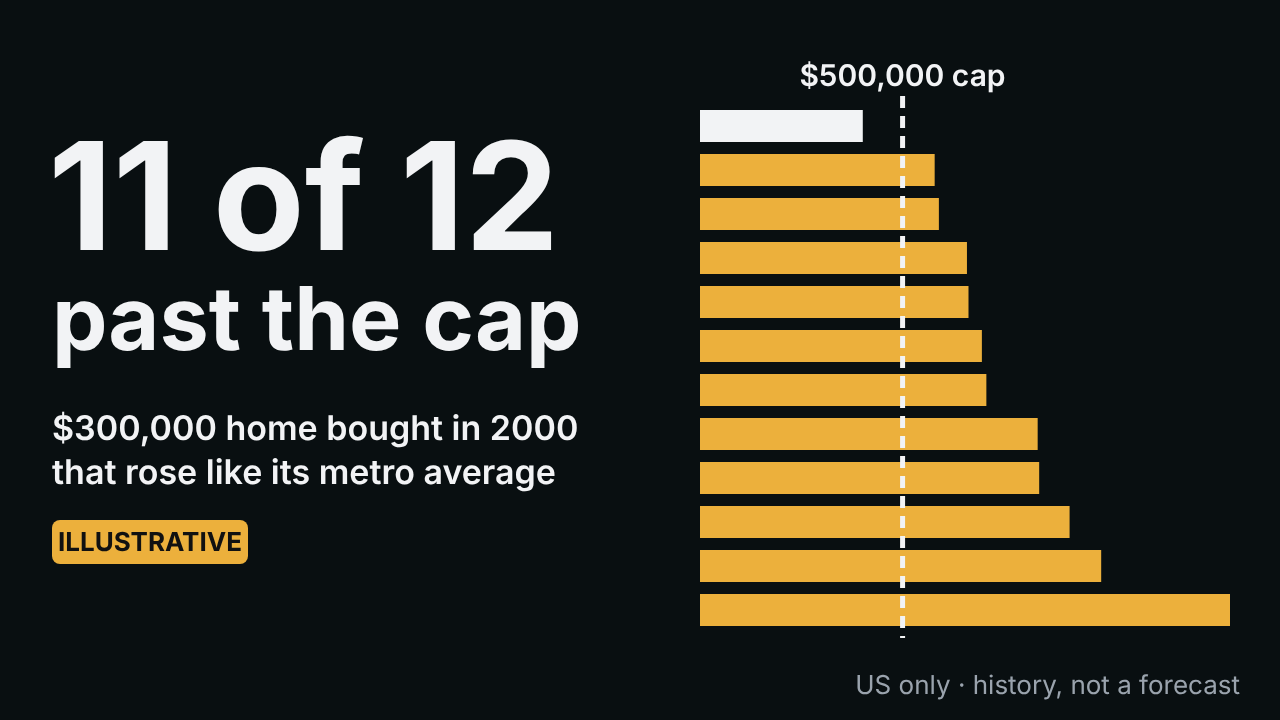
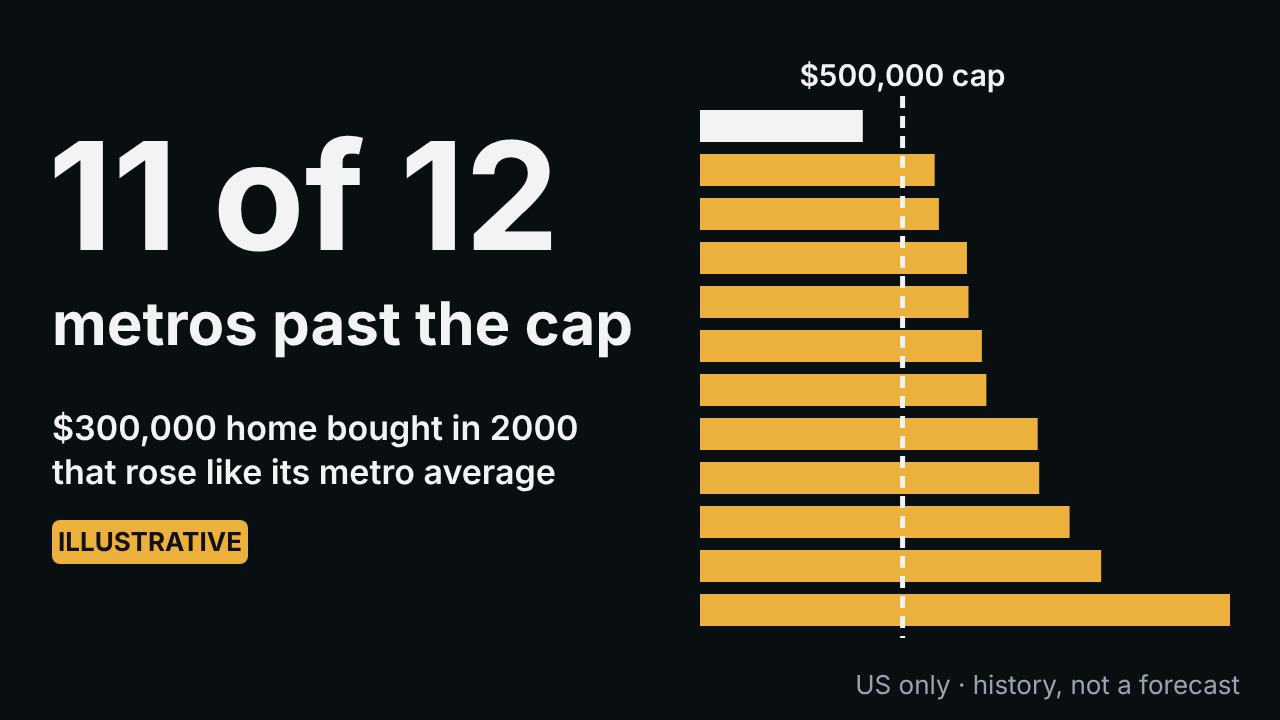
ep004 G2: sửa theo REVIEWER — cổng gốc 3/7, phương án (b)/(b′), hạn chế đối chứng âm, thumb-1 'metros past the cap', thumbnail khai F11, L1, ±5 %; PLAN + ledger
Claude-Session: https://claude.ai/code/session_017UH5f5kzzAtqpZpyL5nkiY

Changed region(s): [[0.0312, 0.3972, 0.5, 0.5194]]

diff --git a/episodes/ep004/design/g2/thumbs.js b/episodes/ep004/design/g2/thumbs.js
@@ -24,7 +24,7 @@ function thumb1() { // 11 of 12 past the cap — bars of gains, $300,000 bought 
   let g1 = METROS.map((m, i) => { const v = num('gain_at_300k_' + m), y = y0 + i * (bh + g); return `<rect x="${x0}" y="${y}" width="${sc(v) - x0}" height="${bh}" fill="${v > cap ? WARN : INK}"/>`; }).join('');
   g1 += `<line x1="${sc(cap)}" y1="${y0 - 14}" x2="${sc(cap)}" y2="${y0 + 12 * (bh + g)}" stroke="${INK}" stroke-width="5" stroke-dasharray="12 8"/>`;
   const texts = [T('h1', 48, 250, 150, `${d('metros_crossed_at_300k')} of ${d('metro_count')}`, ['metros_crossed_at_300k', 'metro_count']),
-    T('h2', 52, 350, 88, 'past the cap', ['excl_joint_limit_usd']),
+    T('h2', 52, 345, 60, 'metros past the cap', ['excl_joint_limit_usd']),
     T('s1', 52, 440, 34, `${d('illustrative_price_300k_usd')} home bought in ${d('buy_year')}`, ['illustrative_price_300k_usd', 'buy_year'], { w: 600 }),
     T('s2', 52, 484, 34, 'that rose like its metro average', [], { w: 600 }),
     T('s3', sc(cap), y0 - 24, 30, `${d('excl_joint_limit_usd')} cap`, ['excl_joint_limit_usd'], { w: 600, anchor: 'middle' }), foot];

diff --git a/episodes/ep004/gates/G2.md b/episodes/ep004/gates/G2.md
@@ -1,29 +1,33 @@
-# Cổng G2 · Tập 4 — gói phát hành (BẢN NHÁP, chờ chủ dự án)
+# Cổng G2 · Tập 4 — gói phát hành (sau REVIEWER, chờ chủ dự án)
 
[1 lines of base64/hex data omitted]
 
 - **Checks lần 2 (C5, 89 luật):** CHẶN 24/35 ĐẠT, 0 hồi quy; còn F11, F12, S03, S04 + luật trang (ngoại lệ Tập 4 đã duyệt C4). CHÍNH 1/11 — đều có giải thích `out/explanations.json`. Chi tiết `gates/C5.md`.
 - **Tóm tắt AI (mù tập):** `gates/G2-ai-summary.md`: đúng câu hỏi + đáp án; **không lấy ra được lời khuyên**; điểm hook 2 · truyện 4 · hình 4 · nhịp 3 · xem tiếp 3; dễ rối: thang/rung 5:10–5:45, đổi $200k→$300k 3:48–4:09, khung quốc gia gần trống 6:45.
 - **So cặp thumbnail:** `gates/G2-thumbs.md`: T1 3/4 · T3 2/4 · T2 1/4 (một người đọc, 6 cặp, 4 vai — hạn chế trần agent).
-- **REVIEWER:** _(điều phối điền)_
-- **Token so trần (2,0 triệu / 30 agent):** _(điều phối điền)_
+- **REVIEWER** (`gates/REVIEW-G2.md`, opus): TRƯỢT 1 CHẶN + 7 CHÍNH + 9 THAM KHẢO → **sửa hết CHẶN và CHÍNH** trong gói (câu 1 báo lại 3/7; hạn chế đối chứng âm; thumb-1 "metros past the cap"; bỏ số không claim ở phương án B10; L1 vào hàng chờ; thumbnail khai vào `contract.json` → F11 còn 14 file; PLAN/ledger; chỉ số ±5 %). Không dựng lại video nên không soát lại vòng 2 (trần). C3 soát bù: số trung thực, chỉ THAM KHẢO.
+- **Chỉ số trong ±5 % quanh ngưỡng (C5):** F04 16,6 Mbps (≥ 16, CHẶN, đạt sát) · F06 (CHẶN, đạt sát) · F07 477,5 s (CHÍNH, trượt) · A18 1 giọng (đạt đúng ngưỡng) · S15 outro 19,6 s (THAM KHẢO, < 20 s).
+- **Token so trần (2,0 triệu / 30 agent):** agent con ≈ 1,61 triệu (27 agent) + điều phối ≈ 0,3 triệu ⇒ **≈ 1,9 triệu**, sát trần; chi tiết `ledger.md`.
+- **Kiểm mù khuyên (A9):** đối chứng dương "Sell before prices drop" bị bắt (rubric dùng được). **Đối chứng âm có hạn chế:** hình V4 (lãi cố định/thả nổi) tự mang lựa chọn sản phẩm → 2/2 người đọc khuyên chọn lãi; thận trọng chung chỉ 1/2 → chưa tách sạch phần do vai/câu hỏi (`gates/C4-blind.md`). S18 2/4 (đạt sát).
 
 ## Câu 1 — L3 và phát hành
-Cổng gốc nhịp loại 1 (C4, `gates/C4-root.md`): **4/7 = 57 % < 80 % → TRƯỢT.** B06 (S06), B10 (S10), B15 (S15) trượt vì nhãn, không vì nghĩa lời. Ký hiệu mới **N1 (B08) / N2 (B14)** duyệt ở G2 theo D-008 §3: nghĩa ĐẠT ở C3 vòng 2; A9 khuyên_tính **0/12**.
+Cổng gốc nhịp loại 1 (C4, `gates/C4-root.md`): **3/7 = 43 % < 80 % → TRƯỢT, cả vì nghĩa lẫn câu khuyên.** Đạt: B08, B14 (N1/N2, C3 vòng 2), B09 (2/2). Trượt: **B06** (nghĩa 0,5 + một cờ khuyên chắc "shouldn't wait on a sale"), **B10** (nghĩa 0,5 + một cờ khuyên yếu "time the sale"), **B11** (một cờ khuyên biên "timing… while I decide when to sell" — theo §5.6 một câu khuyên làm nhịp trượt; người thứ 3 do **điều phối** chấm, không phải người chấm độc lập), **B15** (nghĩa 0,5 ×2: N2 không có ô "giá 2000 của bạn"). Cờ khuyên ở đây đều dạng **chờ/canh thời điểm bán** — loại A9 tính. Ký hiệu mới **N1/N2** duyệt ở G2 theo D-008 §3: nghĩa ĐẠT C3 vòng 2; A9 khuyên_tính 0/12.
 Phương án:
 - (a) phát hành nguyên trạng (chấp nhận cổng gốc trượt);
-- **(b) sửa nhãn rồi phát hành** — chỉ nhãn, danh sách đóng §6.6, dựng lại 3 cảnh + checks lại (không đổi lời, 0 ký tự EL):
+- **(b) sửa nhãn rồi chấm lại** — chỉ nhãn, danh sách đóng §6.6, dựng lại S06, S09/S10, S11, S15 (0 ký tự EL), checks lại; **vòng 2 cổng gốc B06, B10, B11, B15 bằng người đọc mới + người chấm độc lập theo ý đồ vòng 2 ghi trước** (ý đồ cũ ghi "không vòng 2" → cần chủ dự án duyệt; ≈ 0,4 triệu token, ≈ 10 agent — vượt trần phiên hiện tại, cần trần mới):
   - B06/S06: dời nhãn "$500,000 cap"/ILLUSTRATIVE khỏi đoạn cuối đường; mốc "Over: Q2 2022" và "Stayed over since Q2 2023";
-  - B10/S10 (và S09): tiêu đề nói đơn vị — "Value today; past the cap = gain (value − $300,000) over $500,000" hoặc vạch dọc tại $800,000 ("gain = $500,000");
+  - B10/S10 (và S09): tiêu đề nói đơn vị — "Value today · past the cap = gain over $500,000" (không thêm số mới);
+  - B11/S11 và B06: đối trọng "A measurement, not a next step" đứng suốt cảnh (nhắm cờ chờ/canh thời điểm);
   - B15/S15: nhãn "Your 2000 price above your city's rung → past the cap" cạnh thang;
+- (b′) chủ dự án quyết cờ khuyên **mức yếu/biên** (B10, B11) không tính → kết quả 4/7 = 57 % (vẫn < 80 %), rồi (a) hoặc (b) chỉ cho B06, B15;
 - (c) không phát hành.
 
-**Khuyến nghị: (b).** Ba lỗi đều là nhãn che/thiếu đơn vị, sửa trong danh sách đóng; sau sửa chấm lại cổng gốc 3 nhịp (B06, B10, B15). Duyệt N1/N2 vào thư viện ký hiệu kèm.
+**Khuyến nghị: (b).** Lỗi là nhãn che/thiếu đơn vị/thiếu ô, và cờ "chờ thời điểm bán" — đúng loại A9 phải bắt; sửa trong danh sách đóng rồi chấm lại 4 nhịp với trần mới. Duyệt N1/N2 vào thư viện ký hiệu kèm.
 
 ## Câu 2 — Tiêu đề và 3 thumbnail
 - **Tiêu đề:** giữ **T1** (G1): *Bought Your Home in 2000? The $500,000 Tax-Free Limit Test* (58 ký tự).
 - **3 thumbnail** `out/package/thumb-{1,2,3}.png` (dựng `design/g2/thumbs.js`; mọi chữ/số/hình khai claim trong `thumb-N.json`; không câu khuyên, không dự báo; chân "US only · history, not a forecast"):
-  - **T1 "11 of 12 / past the cap"** — `metros_crossed_at_300k`, `metro_count`; phụ "$300,000 home bought in 2000 that rose like its metro average" + ILLUSTRATIVE; hình 12 thanh `gain_at_300k_*` qua vạch $500,000.
+  - **T1 "11 of 12 / metros past the cap"** (sau REVIEWER: thêm "metros" — người đọc so cặp đã đọc thành "most homes like mine") — `metros_crossed_at_300k`, `metro_count`; phụ "$300,000 home bought in 2000 that rose like its metro average" + ILLUSTRATIVE; hình 12 thanh `gain_at_300k_*` qua vạch $500,000.
   - **T2 "Cap: $500,000 / Prices: ×3.1"** — `excl_joint_limit_usd`, `growth_us`; phụ "US average, 2000 → 2026 Q2 · cap since May 1997"; hình đường lãi $300,000 theo chỉ số US vượt vạch cap (`gain_at_300k_us`, `cross_quarter_at_300k_us`) + ILLUSTRATIVE.
   - **T3 "Miami ≈ $114,700 / Chicago ≈ $373,400"** — `threshold_joint_min/max(_metro)`; phụ "2000 price where the gain passes $500,000 · home that rose like its metro average"; hình dải chấm 12 ngưỡng `threshold_joint_*`.
 - Mô tả: `out/package/description.md` (bản C5, giữ nguyên).
@@ -33,7 +37,8 @@ Phương án:
 ## Câu 3 — Shorts và hàng chờ CHÍNH / ngoại lệ cần quyết
 - **Shorts** `out/shorts/SH{1,2,3}.mp4` (S06 35,1 s · S10 22,5 s · S11 25,7 s): SH01–SH05 ĐẠT cả 3, qc dọc ĐẠT. Nếu chọn (b) ở câu 1, SH1/SH2 dựng lại theo nhãn mới.
 - **Ngoại lệ cần quyết:**
-  1. **F11 CHẶN** — 17 file phát hành của pipeline cũ (sfx/room/sonify, camera, cues…) + `page.json` không có ở nhà máy → nới ngoại lệ Tập 4 (như luật trang), việc treo lô K.
+  1. **F11 CHẶN** — thumbnail đã khai (`contract.json`); còn **14 file** phát hành của pipeline cũ (sfx/whoosh/room/sonify stem, camera, sfx/sonify-events, tempo-map, transitions, cues, tension-map json/png, shotlist, tokens) + `page.json` không có ở nhà máy → nới ngoại lệ Tập 4 (như luật trang), việc treo lô K. Chạy lại F11/P01: `out/checks/report-partial.md`. **P01 THAM KHẢO** trượt: tương phản 10 % ≈ 2,24 và 18 chữ < 90 px trên thumbnail — chỉ báo số.
+  1b. **L1 CHÍNH** — không có lớp sonify (nhà máy không có) → giải thích ở `out/explanations.json`, ghi nhận.
   2. **F12 CHẶN MISSING** — chỉ vì không có trang lấy mẫu; chạy khô logic = PASS → ngoại lệ cùng luật trang.
   3. **S03/S04 CHẶN** — `fhfa.gov` vẫn 403 qua proxy → chấp nhận FRED làm nguồn duy nhất cho Tập 4 (FRED phân phối lại chính chuỗi FHFA), hoặc mở miền rồi đối chiếu trước khi đăng.
   4. **S14 THAM KHẢO** — nhạc lấp khoảng lặng ≥ 1 s ở 2 mid-roll → giữ (gu phối) hoặc hạ nhạc về 0 quanh MR1 180,05 s / MR2 349,30 s (chỉ mix lại).

diff --git a/episodes/ep004/PLAN.md b/episodes/ep004/PLAN.md
@@ -12,7 +12,9 @@ Nhánh `ep004` từ `main` @ `b9710d2` (đẩy song song lên `claude/tap4-p1-di
 | Giao phiên K | **SẴN SÀNG — chủ dự án mở phiên K** | `K-brief.md` | kind mới; một lần cho tập |
 | **G1** | **XONG** — chủ dự án duyệt (issue #37; C2 tự động #36) | `gates/G1.md`, `gates/G1-answer.md` | trần 4,5 triệu |
 | C3 (P2) | **XONG** — chủ dự án duyệt (issue #39, `gates/C3-answer.md`): N1, N2 ký hợp đồng bản vòng 2; ngoại lệ cờ khuyên Tập 4 | `gates/C3.md`, `gates/C3-tally.md`, `design/c3/`, `review-c3/` | dựng bằng nhà máy; móc nạp ký hiệu +7/−3 |
-| C4 (phiên cuối, D-008) | **DỪNG HỎI chủ dự án** — animatic dựng (`61aa5e0`), checks lần 1 TRƯỢT 13 CHẶN (7 luật trang thiếu `page.json`, S03/S04 nguồn FHFA bị chặn, F06/F10–F12 việc C5); kiểm mù gộp xong; cổng gốc nhịp loại 1 chưa chạy | `gates/C4.md`, `gates/C4-blind.md`, `gates/C4-blind-intent.md` | đối chứng dương ĐẠT; C3 theo A9 khuyên_tính 0/12; S18 2/4 đạt sát |
+| C4 (phiên cuối, D-008) | XONG — checks lần 1; kiểm mù gộp (đối chứng dương ĐẠT, âm có hạn chế; C3 theo A9 khuyên_tính 0/12; S18 2/4); **cổng gốc 3/7 TRƯỢT** (B06, B10, B11, B15); chủ dự án trả lời ngoại lệ (`gates/C4-answer.md`) | `gates/C4*.md` | trần nâng 2,0 tr / 30 agent |
+| C5 | XONG — nhạc style C, −14,2 LUFS / −1,6 dBTP; checks lần 2 CHẶN 24/35 (còn F11, F12, S03, S04 + luật trang ngoại lệ); Shorts 3/3 SH01–SH05 ĐẠT; ASR "rose" | `gates/C5.md` | bản vá Shorts toolkit chưa commit (`design/c5/factory-shorts.patch`) |
+| **G2** | **CHỜ chủ dự án** — gói sau REVIEWER (1 CHẶN + 7 CHÍNH đã sửa) | `gates/G2.md`, `gates/REVIEW-G2.md`, `gates/G2-*.md`, `review-g2/` | khuyến nghị (b): sửa nhãn + vòng 2 cổng gốc với trần mới |
 
 ## 2. Phiên sau đọc (phiên C4 + P3)
 `CHARTER.md` · `playbook/quality-framework.md` · `playbook/episode.md` · `playbook/prompts/P3.md` · `episodes/ep004/PLAN.md` · `ledger.md` · `gates/G1-answer.md` · **`gates/C3-answer.md`** · `gates/C3.md` · `story/script.md` · `story/beats.md` · `episode.yaml` · `design/c3/NOTES.md` · `toolkit/factory/README.md` · `checks-appeal.md` A9.
@@ -29,7 +31,7 @@ Nhánh `ep004` từ `main` @ `b9710d2` (đẩy song song lên `claude/tap4-p1-di
 - Phối nhạc style C, lời cả tập theo cảnh (cold open có take S01/S02 theo hash chữ; S08, S13, S14 đã cache).
 - Luật nhãn "like … average" theo cảnh là **luật của tập** (`story/check_script.py`), không vào `checks/`.
 ## 4. Điểm dừng an toàn + lệnh chạy tiếp
-2026-10-06 (phiên cuối, D-008): LOCK `250ab298` khớp; merge `main` (`b528736`); D-008 + `playbook/prompts/RUN.md`; selftest móc `toolkit/tests/test_symbol_hook.py` 5/5 (điều (d): spec chưa BLOCK file ký hiệu thiếu — `load_inputs` dừng trước API; thêm kiểm vào `spec.py` bị chặn quyền → hàng chờ); C4 dựng + checks lần 1; kiểm mù gộp. **Dừng hỏi chủ dự án:** luật trang, S03/S04, thời lượng 7:58, EL 11.702 ký tự, trần token. Dựng lại: `python3 episodes/ep004/design/c4/build_inputs.py && bash toolkit/build.sh episodes/ep004/episode.yaml && python3 episodes/ep004/design/c4/build_inputs.py --out` (av 14.2.0 cho faster-whisper).
+2026-10-06 (phiên cuối, D-008): LOCK `250ab298` khớp; merge `main` (`b528736`); D-008 + `playbook/prompts/RUN.md`; selftest móc `toolkit/tests/test_symbol_hook.py` 5/5 (điều (d): spec chưa BLOCK file ký hiệu thiếu — `load_inputs` dừng trước API; thêm kiểm vào `spec.py` bị chặn quyền → hàng chờ); C4 dựng + checks lần 1; kiểm mù gộp. Chủ dự án trả lời (`gates/C4-answer.md`) → cổng gốc, C5, gói G2, REVIEWER. **DỪNG ở G2.** Dựng lại: `python3 episodes/ep004/design/c4/build_inputs.py && bash toolkit/build.sh episodes/ep004/episode.yaml && python3 episodes/ep004/design/c4/build_inputs.py --out` (av 14.2.0 cho faster-whisper).
 2026-10-06 (P2, xong): C3 duyệt (issue #39); S14.5 sửa + sinh lại + ASR. **P2 DỪNG. C4 + P3 ở phiên mới, sau khi `checks-k38` merge `main`.** Dựng lại đoạn trích: dữ liệu như dưới → `python3 episodes/ep004/design/c3/build_inputs.py` → `bash toolkit/build.sh episodes/ep004/episode.yaml` (giọng cache theo băm; cài ffmpeg nếu thiếu).
 2026-10-05: G1 xong; dừng chờ phiên K (chủ dự án mở), rồi P2. Dữ liệu không commit: `python3 episodes/ep004/data/fetch.py` (kiểm SHA) → `python3 episodes/ep004/model/model.py` → `python3 episodes/ep004/story/check_script.py`. Clip: `python3 episodes/ep004/story/cold_open.py` (take theo hash chữ, không sinh lại nếu chữ không đổi).
 

diff --git a/episodes/ep004/ledger.md b/episodes/ep004/ledger.md
@@ -37,3 +37,14 @@ Mỗi agent con, mỗi cổng: một dòng. Token = số harness của agent con
 | 2026-10-06 | sau C3 | S14.5 "a 2000 price" → "a price paid in 2000"; dựng lại (chỉ S14 sinh giọng) + ASR | lệnh | — | 470 ký tự EL; check_script ĐẠT; qc 0 TRƯỢT; ASR 8/8 từ khoá; **tổng EL P2 1.627, tập 3.554** |
 | 2026-10-06 | C4 (P3) | animatic cả tập bằng nhà máy (19 cảnh, 37 shot) + contract.json + checks lần 1 | lệnh | — | 477,6 s; MR 180,05 / 349,30 s; EL 8.148 ký tự (tập 11.702, vượt đích 6.000; hạn mức không đọc được: khoá thiếu `user_read`); checks CHẶN 22 ĐẠT/13, CHÍNH 1/10, THAM KHẢO 5/38 (S01, S05, A14, S14, S18 ĐẠT); sửa: model `_names` mọi mốc, value `sale_quarter`, 5 câu giữ nghĩa (A14), cắt tiếng F03, phụ đề F09, nhãn điều kiện S09/S10/S01/S07/S15; cổng gốc chưa chạy (dải `review-c4/strips/`); `gates/C4.md` |
 | 2026-10-06 | C5 (P3) | nhạc style C + render 1080p + checks lần 2 + Shorts + mô tả/rights/visual-assets + highlight | lệnh | — | 0 ký tự EL; −14,2 LUFS / −1,6 dBTP (§6.2: −0,2 dB lúc mã hoá vì AAC −1,4); CHẶN 24/35 (còn F11, F12, S03/S04 + trang ngoại lệ); Shorts SH01–SH05 ĐẠT sau sửa nhánh dọc engine/templates (§6.6: xuống dòng, đối trọng dọc, bars dọc, nhãn cap) — toolkit chưa commit, bản vá `design/c5/factory-shorts.patch`; ASR S14.1 "rose" đúng; fhfa.gov vẫn 403; `gates/C5.md` |
+| 2026-10-06 | phiên cuối mở | LOCK 250ab298 khớp; merge `main`; D-008 + `RUN.md` | lệnh | — | — |
+| 2026-10-06 | móc | selftest `test_symbol_hook.py` | sonnet | 66.810 | 5/5; (d) spec chưa BLOCK file thiếu (sửa spec bị chặn quyền → G2) |
+| 2026-10-06 | C4 | dựng cả tập + checks lần 1 | opus | 287.520 | 7:58; CHẶN 22/35; EL 8.148 ký tự (tập 11.702) |
+| 2026-10-06 | C4 | kiểm mù gộp: đối chứng âm 2 + S18 4 + người chấm | sonnet | 6 × ≈ 35k + 69.036 | dương ĐẠT; âm có hạn chế; C3 theo A9 0/12; S18 2/4 |
+| 2026-10-06 | C4 | **chủ dự án trả lời** | — | — | ngoại lệ luật trang; mở fhfa.gov; giữ 7:58; trần 2,0 tr / 30 agent |
+| 2026-10-06 | C4 | cổng gốc: 10 + 1 người đọc + người chấm | sonnet | 11 × ≈ 35k + 59.918 | **3/7 TRƯỢT** (sửa từ 4/7 sau REVIEWER) |
+| 2026-10-06 | C5 | nhạc, checks lần 2, Shorts | opus | 198.222 | CHẶN 24/35; Shorts 3/3; 0 EL; sửa toolkit không commit (bản vá) |
+| 2026-10-06 | G2 | gói + thumbnail + xem trước | opus | 118.767 | T1/T2/T3; 720p 84,6 MB |
+| 2026-10-06 | G2 | tóm tắt AI + so cặp thumbnail | sonnet | 41.363 + 38.198 | không lấy ra lời khuyên; T1 3/4 |
+| 2026-10-06 | G2 | REVIEWER (gói G2 + soát bù C3) | opus | 136.854 | TRƯỢT 1 CHẶN + 7 CHÍNH → sửa hết trong gói; thumb-1 "metros"; F11 thumbnail khai |
+| 2026-10-06 | **tổng phiên cuối** | **27 agent** | — | **≈ 1,61 triệu** | + điều phối ≈ 0,3 triệu ⇒ ≈ 1,9 triệu (trần 2,0) |

diff --git a/episodes/ep004/gates/C4-root.md b/episodes/ep004/gates/C4-root.md
@@ -6,11 +6,11 @@
 | B08 KEY-3 (N1) | C3 vòng 2: 1 · 1, khuyên_tính 0/2 theo A9 | **ĐẠT** (C3) |
 | B09 KEY-4a | 1 · không — 1 · không | **ĐẠT** 2/2 |
 | B10 KEY-4b | 0,5 · không — 1 · có yếu ("time the sale") | **TRƯỢT** 0/2 — thanh là GIÁ TRỊ nhà, trần là trên LÃI: người đọc 1 thấy SF/SJ "dưới trần" mà vẫn đếm 11/12 |
-| B11 KEY-5 | 1 · có biên — 1 · không — 1 · không (người 3) | **ĐẠT** 2/3 (nêu tên) |
+| B11 KEY-5 | 1 · có biên — 1 · không — 1 · không (người 3) | **TRƯỢT** (cờ khuyên biên ở người 1; người 3 do điều phối chấm) |
 | B14 KEY-6 (N2) | C3 vòng 2: 1 · 1, khuyên_tính 0/2 theo A9 | **ĐẠT** (C3) |
 | B15 KEY-7 | 0,5 · không — 0,5 · không | **TRƯỢT** 0/2 — thiếu "ô giá 2000 của bạn" (N2 không vẽ ô này); một người đọc ngược chiều thang |
 
-**Cổng: 4/7 = 57 % < 80 % → TRƯỢT.** Không vòng 2 (ý đồ ghi trước; trần phiên). Người thứ 3 của B11 do điều phối chấm theo cùng rubric và tiền lệ của người chấm (nhãn b0f02085: nghĩa 1 khi đủ đường đi, thiếu mốc năm; "talk to a tax adviser before choosing when to sell" = thận trọng chung) — ghi rõ vì không phải người chấm độc lập.
+**Cổng: 3/7 = 43 % < 80 % → TRƯỢT** (sửa sau REVIEWER: B11 có một cờ khuyên biên → theo §5.6 nhịp trượt; bản trước ghi nhầm 4/7). Cờ khuyên tính theo A9: B06 chắc, B10 yếu, B11 biên — đều dạng chờ/canh thời điểm bán. Không vòng 2 (ý đồ ghi trước; trần phiên). Người thứ 3 của B11 do điều phối chấm theo cùng rubric và tiền lệ của người chấm (nhãn b0f02085: nghĩa 1 khi đủ đường đi, thiếu mốc năm; "talk to a tax adviser before choosing when to sell" = thận trọng chung) — ghi rõ vì không phải người chấm độc lập.
 Thận trọng chung: 11/11 (như C1–C3 và 1/2 ở đối chứng âm).
 
 ## Hướng sửa đề xuất cho G2 (chỉ nhãn, danh sách đóng §6.6; cần dựng lại 3 cảnh + checks lại)

diff --git a/episodes/ep004/out/checks/report-partial.md b/episodes/ep004/out/checks/report-partial.md
@@ -1,0 +1,25 @@
+# checks/ report
+
+root: `/home/user/crux-lab/episodes/ep004`  
[2 lines of base64/hex data omitted]
+{'PASS': 0, 'FAIL': 2, 'MISSING': 0, 'ERROR': 0}
+
+**Tập: TRƯỢT** (chỉ luật CHẶN làm trượt tập; luật CHÍNH không đạt cần bên dựng giải thích; luật THAM KHẢO chỉ báo số đo)
+
+| cấp | luật | đạt | không đạt |
+|---|---|---|---|
+| CHẶN | 1 | 0 | F11 FAIL |
+| CHÍNH | 0 | 0 | — |
+| THAM KHẢO | 1 | 0 | P01 FAIL |
+
+## Chỉ số trong ±5% quanh ngưỡng
+
+- P01 (THAM KHẢO) · thumb 1 token share (%) = 100.0 (ngưỡng >= 97.0, đạt)
+- P01 (THAM KHẢO) · thumb 2 token share (%) = 99.986328 (ngưỡng >= 97.0, đạt)
+- P01 (THAM KHẢO) · thumb 3 token share (%) = 99.99924 (ngưỡng >= 97.0, đạt)
+
+| rule | tier | § | status | failing metrics |
+|---|---|---|---|---|
+| F11 | CHẶN | CH §4 khâu 3 (hợp đồng tập, K2) | FAIL | declared artefacts not delivered = 1 (need <= 0); release files not declared = 14 (need <= 0) |
+| P01 | THAM KHẢO | DX-P2 | FAIL | thumb 1 min contrast at 10% = 2.241864 (need >= 3.0); thumb 2 min contrast at 10% = 2.241864 (need >= 3.0); thumb 3 min contrast at 10% = 2.230069 (need >= 3.0); thumb texts below 90 px = 18 (need <= 0) |
